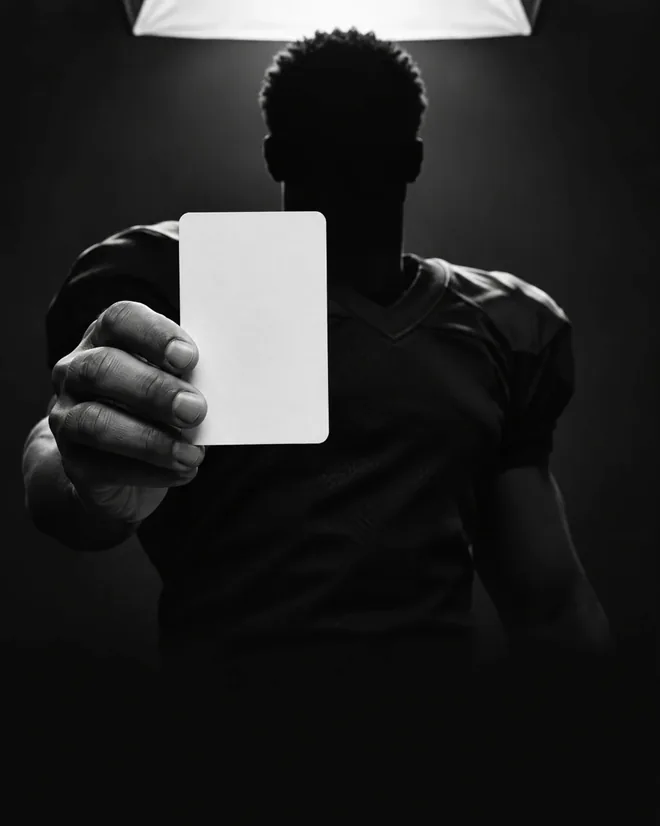
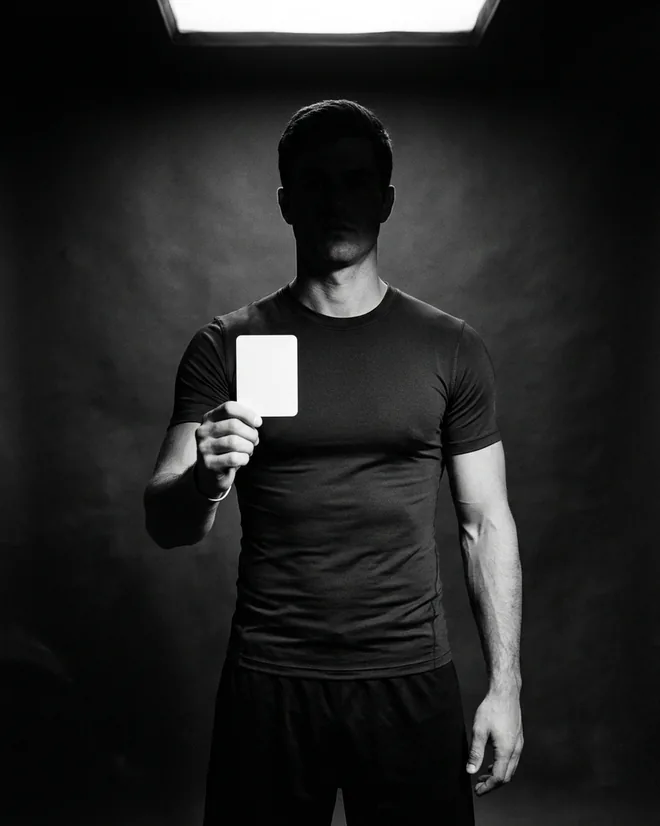
Bola Studio : « Ma carte en vrai » montre un footballeur, plus un joueur de foot US
- Nouvelle image (Higgsfield, demandée par Sabri le 16/11) : même lumière noir
  et blanc, maillot de foot ajusté, carte blanche en main ; 978 × 1224 et sa
  copie légère 660 × 826.
- studio-check : empreintes mises à jour.

Claude-Session: https://claude.ai/code/session_019wRLTNws7X9f7WHA7tbvF3

diff --git a/tools/studio-check.ts b/tools/studio-check.ts
@@ -263,10 +263,13 @@ const surDisque: Lecteur = (adresse) => (existsSync(join(PUBLIC, adresse)) ? rea
  * nom de son modèle, et pas seulement des fichiers du bon nom et de la bonne taille. L'original est le fichier
  * fourni, sans la marge de sa capture (deux octets de son en-tête) ; la copie légère en est tirée.
  * tools/studio-vignettes.py refait les vingt-quatre et affiche ces lignes.
+ * Sauf « Ma carte en vrai » : la première image montrait un joueur de football américain (épaulettes) ; régénérée
+ * le 16/11 à la demande de Sabri (Higgsfield, Nano Banana 2, 928 × 1152), mise à 978 × 1224 (Lanczos, 4 px rognés
+ * de chaque côté), WebP qualité 88 et sa copie légère à 82.
  */
 const EMPREINTES: Record<string, string> = {
[7 lines of base64/hex data omitted]
